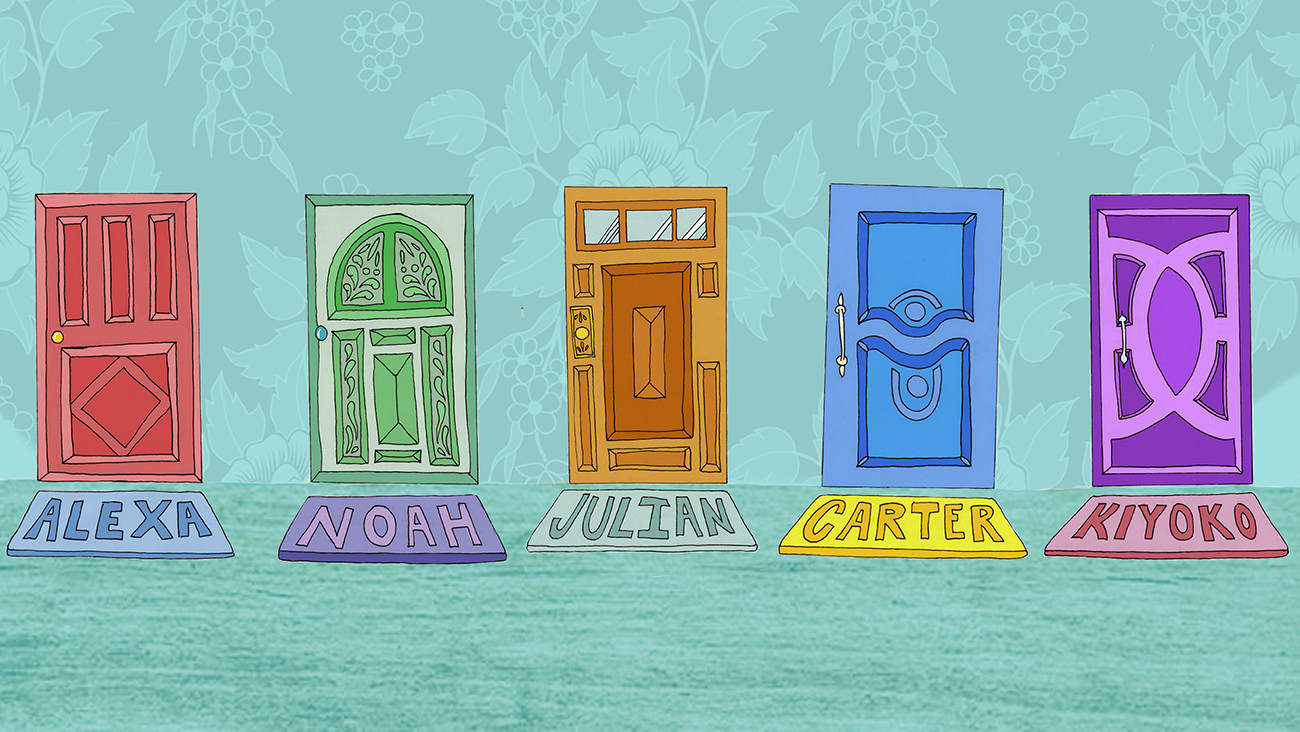
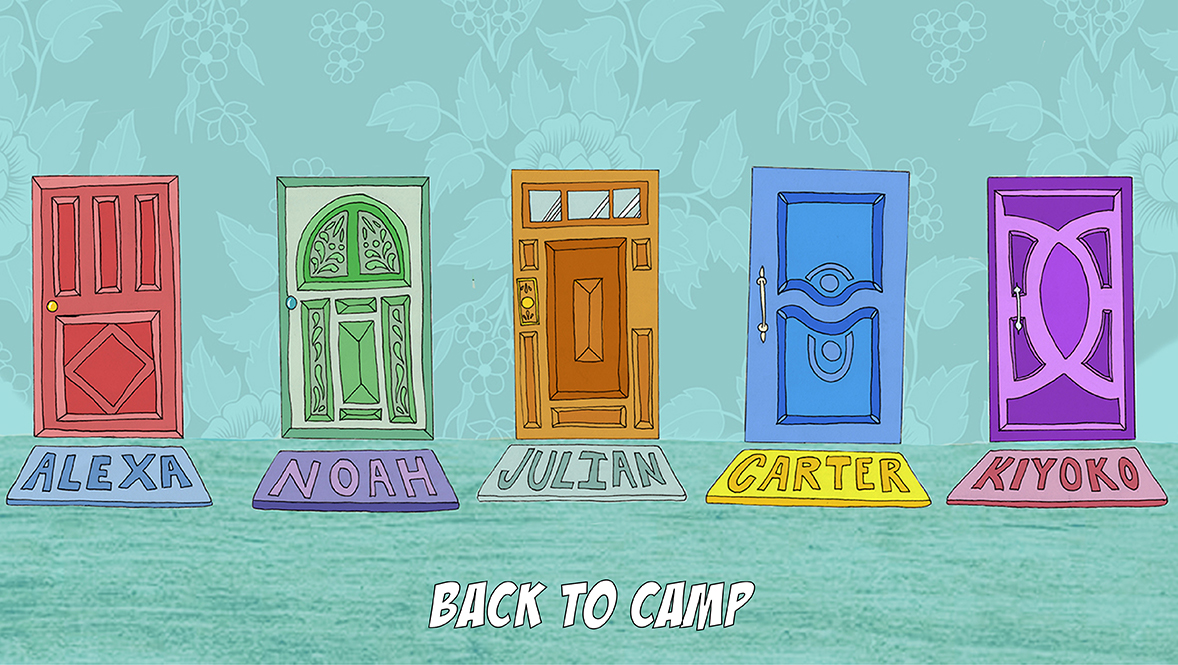
added back to camp and resized image

diff --git a/all_counselors.html b/all_counselors.html
@@ -13,10 +13,11 @@
 <img src="assets/maps/all_counselors.jpg" usemap="#image-map">
 
 <map name="image-map">
-    <area target="" alt="Alexa" title="Alexa" href="https://aicl2020.github.io/counselor_room_alexa.html" coords="33,194,194,194,201,474,202,495,233,552,6,551,35,489" shape="poly">
-    <area target="" alt="Noah" title="Noah" href="https://aicl2020.github.io/counselor_room_noah.html" coords="304,198,473,194,478,487,508,561,278,558,307,492" shape="poly">
-    <area target="" alt="Julian" title="Julian" href="https://aicl2020.github.io/counselor_room_julian.html" coords="562,188,727,184,730,492,755,548,527,549,568,487" shape="poly">
-    <area target="" alt="Carter" title="Carter" href="https://aicl2020.github.io/counselor_room_carter.html" coords="829,181,1006,185,996,498,1028,552,781,551,817,492" shape="poly">
-    <area target="" alt="Kiyoko" title="Kiyoko" href="https://aicl2020.github.io/counselor_room_kiyoko.html" coords="1087,195,1248,191,1254,494,1289,555,1048,555,1089,489" shape="poly">
+    <area target="" alt="Alexa" title="Alexa" href="https://aicl2020.github.io/counselor_room_alexa.html" coords="30,175,32,444,6,498,209,505,188,435,177,176" shape="poly">
+    <area target="" alt="Noah" title="Noah" href="https://aicl2020.github.io/counselor_room_noah.html" coords="248,504,277,447,274,174,430,174,434,447,459,509" shape="poly">
+    <area target="" alt="Julian" title="Julian" href="https://aicl2020.github.io/counselor_room_julian.html" coords="511,167,508,440,475,501,688,502,659,438,660,169" shape="poly">
+    <area target="" alt="Carter" title="Carter" href="https://aicl2020.github.io/counselor_room_carter.html" coords="748,163,911,168,903,450,929,502,703,498,740,443" shape="poly">
+    <area target="" alt="Kiyoko" title="Kiyoko" href="https://aicl2020.github.io/counselor_room_kiyoko.html" coords="946,504,986,444,988,175,1135,176,1137,441,1166,507" shape="poly">
+    <area target="" alt="Back to Camp" title="Back to Camp" href="https://aicl2020.github.io" coords="417,574,762,637" shape="rect">
 </map>
 </body>
